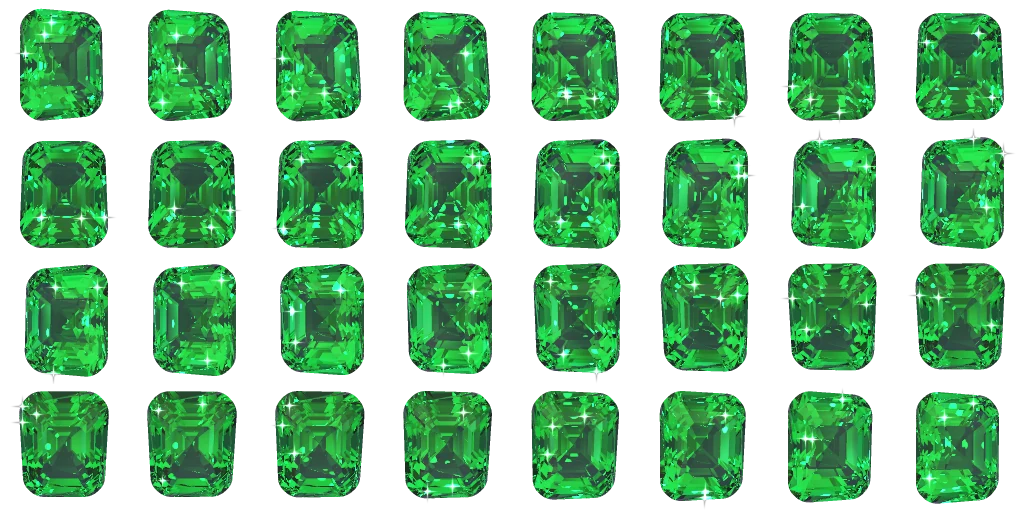
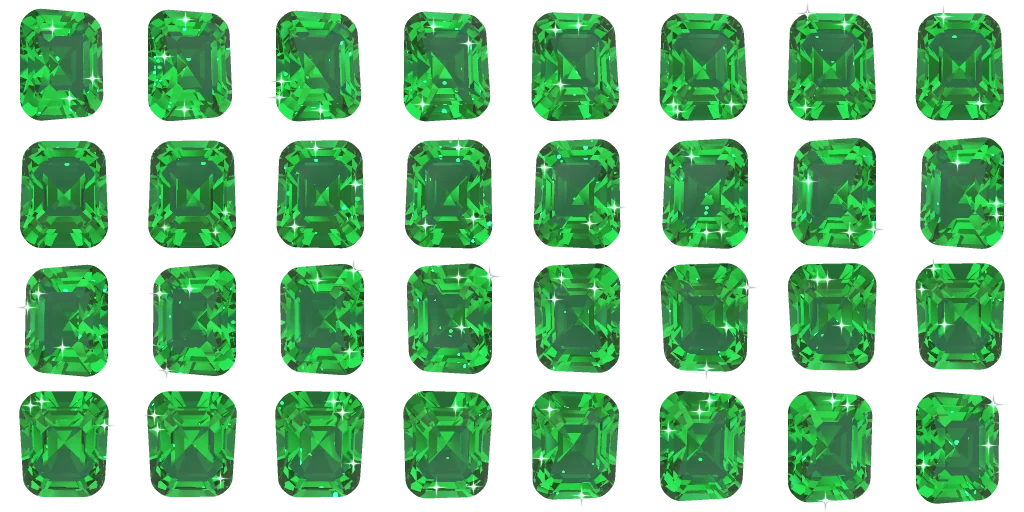
Calmer realistic gems: fewer facets, softer purple, light blue
The 3D cuts now have one flat table and one big facet per side above and
below, instead of the full brilliant pattern, so the stones read cleanly at
board size. Facets meeting a curved girdle reflect as one flat plane, and
rays that get lost inside no longer leave black holes.

The purple gem becomes a soft shield with bulging sides and rounder corners
(comic too), and the blue gem is now a bright light blue.

diff --git a/js/gems.js b/js/gems.js
@@ -77,7 +77,20 @@ const PEAR = (() => {
 const HEX = [[0, -0.98], [0.86, -0.49], [0.86, 0.49], [0, 0.98], [-0.86, 0.49], [-0.86, -0.49]];
 const KITE = [[0, -1], [0.94, 0], [0, 1], [-0.94, 0]];
 const OCTA = [[-0.52, -0.96], [0.52, -0.96], [0.76, -0.72], [0.76, 0.72], [0.52, 0.96], [-0.52, 0.96], [-0.76, 0.72], [-0.76, -0.72]];
-const TRI = [[-1, -0.72], [1, -0.72], [0, 0.98]];
+// A trillion with gently bulging sides, so that it reads as a soft shield rather than a spike.
+const TRI = (() => {
+  const corners = [[-0.96, -0.68], [0.96, -0.68], [0, 0.94]];
+  const out = [];
+  corners.forEach((p, i) => {
+    const q = corners[(i + 1) % 3];
+    const ex = q[0] - p[0], ey = q[1] - p[1], len = Math.hypot(ex, ey);
+    for (let k = 0; k < 8; k++) {
+      const t = k / 8, bulge = 0.09 * Math.sin(t * Math.PI);
+      out.push([p[0] + ex * t + (ey / len) * bulge, p[1] + ey * t - (ex / len) * bulge]);
+    }
+  });
+  return out;
+})();
 const ROUND = circle(0.96);
 
 // Softens every sharp corner of an outline: the stretch within r of the corner,
@@ -138,7 +151,7 @@ function nearestOnOutline(poly, p) {
 
 // A finished cut: rounded outline, with the facet anchors moved onto it.
 function cut(poly, center, anchors, rest) {
-  const outline = roundCorners(poly);
+  const outline = roundCorners(poly, rest.rounding);
   const verts = anchors(outline).map((v) => nearestOnOutline(outline, v));
   const out = { poly: outline, center, verts, ...rest };
   if (rest.comicVerts) out.comicVerts = rest.comicVerts.map((v) => nearestOnOutline(outline, v));
@@ -162,11 +175,16 @@ export const shapes = [
   cut(KITE, [0, 0], () => withMidpoints(KITE), { table: 0.5 }),
   cut(OCTA, [0, 0], () => OCTA, { step: true, coarse: 1, table: 0.46 }),
   cut(ROUND, [0, 0], (o) => rayAnchors(o, [0, 0], 16), { table: 0.56 }),
-  cut(TRI, [0, -0.15], () => withMidpoints(TRI, 3), { coarse: 3, table: 0.48 }),
+  cut(TRI, [0, -0.15], () => [0, 8, 16].flatMap((i) => [TRI[i], TRI[i + 4]]), { coarse: 1, rounding: 0.36, table: 0.5 }),
   cut(PEAR, [0, 0.14], (o) => rayAnchors(o, [0, 0.14], 12), { shine: 0.93, table: 0.5 }),
 ];
 
 function scaled(p, center, k) { return lerp(center, p, k); }
+
+// The few big facets a cut is simplified to, for comic art and for the 3D model.
+export function bigFacetAnchors(shape) {
+  return shape.comicVerts ?? shape.verts.filter((_, i) => i % (shape.coarse ?? 2) === 0);
+}
 
 // Splits a cut into crown facets: for each outline edge, the outer "girdle"
 // triangle plus the two inner triangles that meet the table.
@@ -393,8 +411,7 @@ function paintComic(ctx, shape, tone) {
   const [cx, cy] = shape.center;
   const flat = (v, facet) => tone(v < 0.3 ? 1 : v < 0.5 ? 2 : v < 0.74 ? 3 : 4, facet);
   // comic art uses far fewer, bigger facets than the real cut
-  const coarse = { ...shape, verts: shape.comicVerts ?? shape.verts.filter((_, i) => i % (shape.coarse ?? 2) === 0) };
-  const segs = crownSegments(coarse);
+  const segs = crownSegments({ ...shape, verts: bigFacetAnchors(shape) });
 
   // heavier ink on the shadow side
   ctx.save();
@@ -489,7 +506,7 @@ const REAL_COLOURS = [
   (l) => hsl(0.085, 0.95, l),                // amber
   (l) => hsl(0.135, 0.95, l),                // citrine
   (l) => hsl(0.405, 0.85, l),                // emerald
-  (l) => hsl(0.605, 0.9, l),                 // sapphire
+  (l) => hsl(0.565, 0.92, 0.14 + l * 0.86),  // light blue topaz
   (l) => hsl(0.775, 0.8, l),                 // amethyst
   (l, i) => (i % 5 === 2 && l > 0.5 ? hsl(i * 0.17, 0.75, 0.82) : hsl(0.6, 0.3, 0.38 + Math.max(0, Math.min(1, l)) * 0.62)), // diamond with fire
 ];
